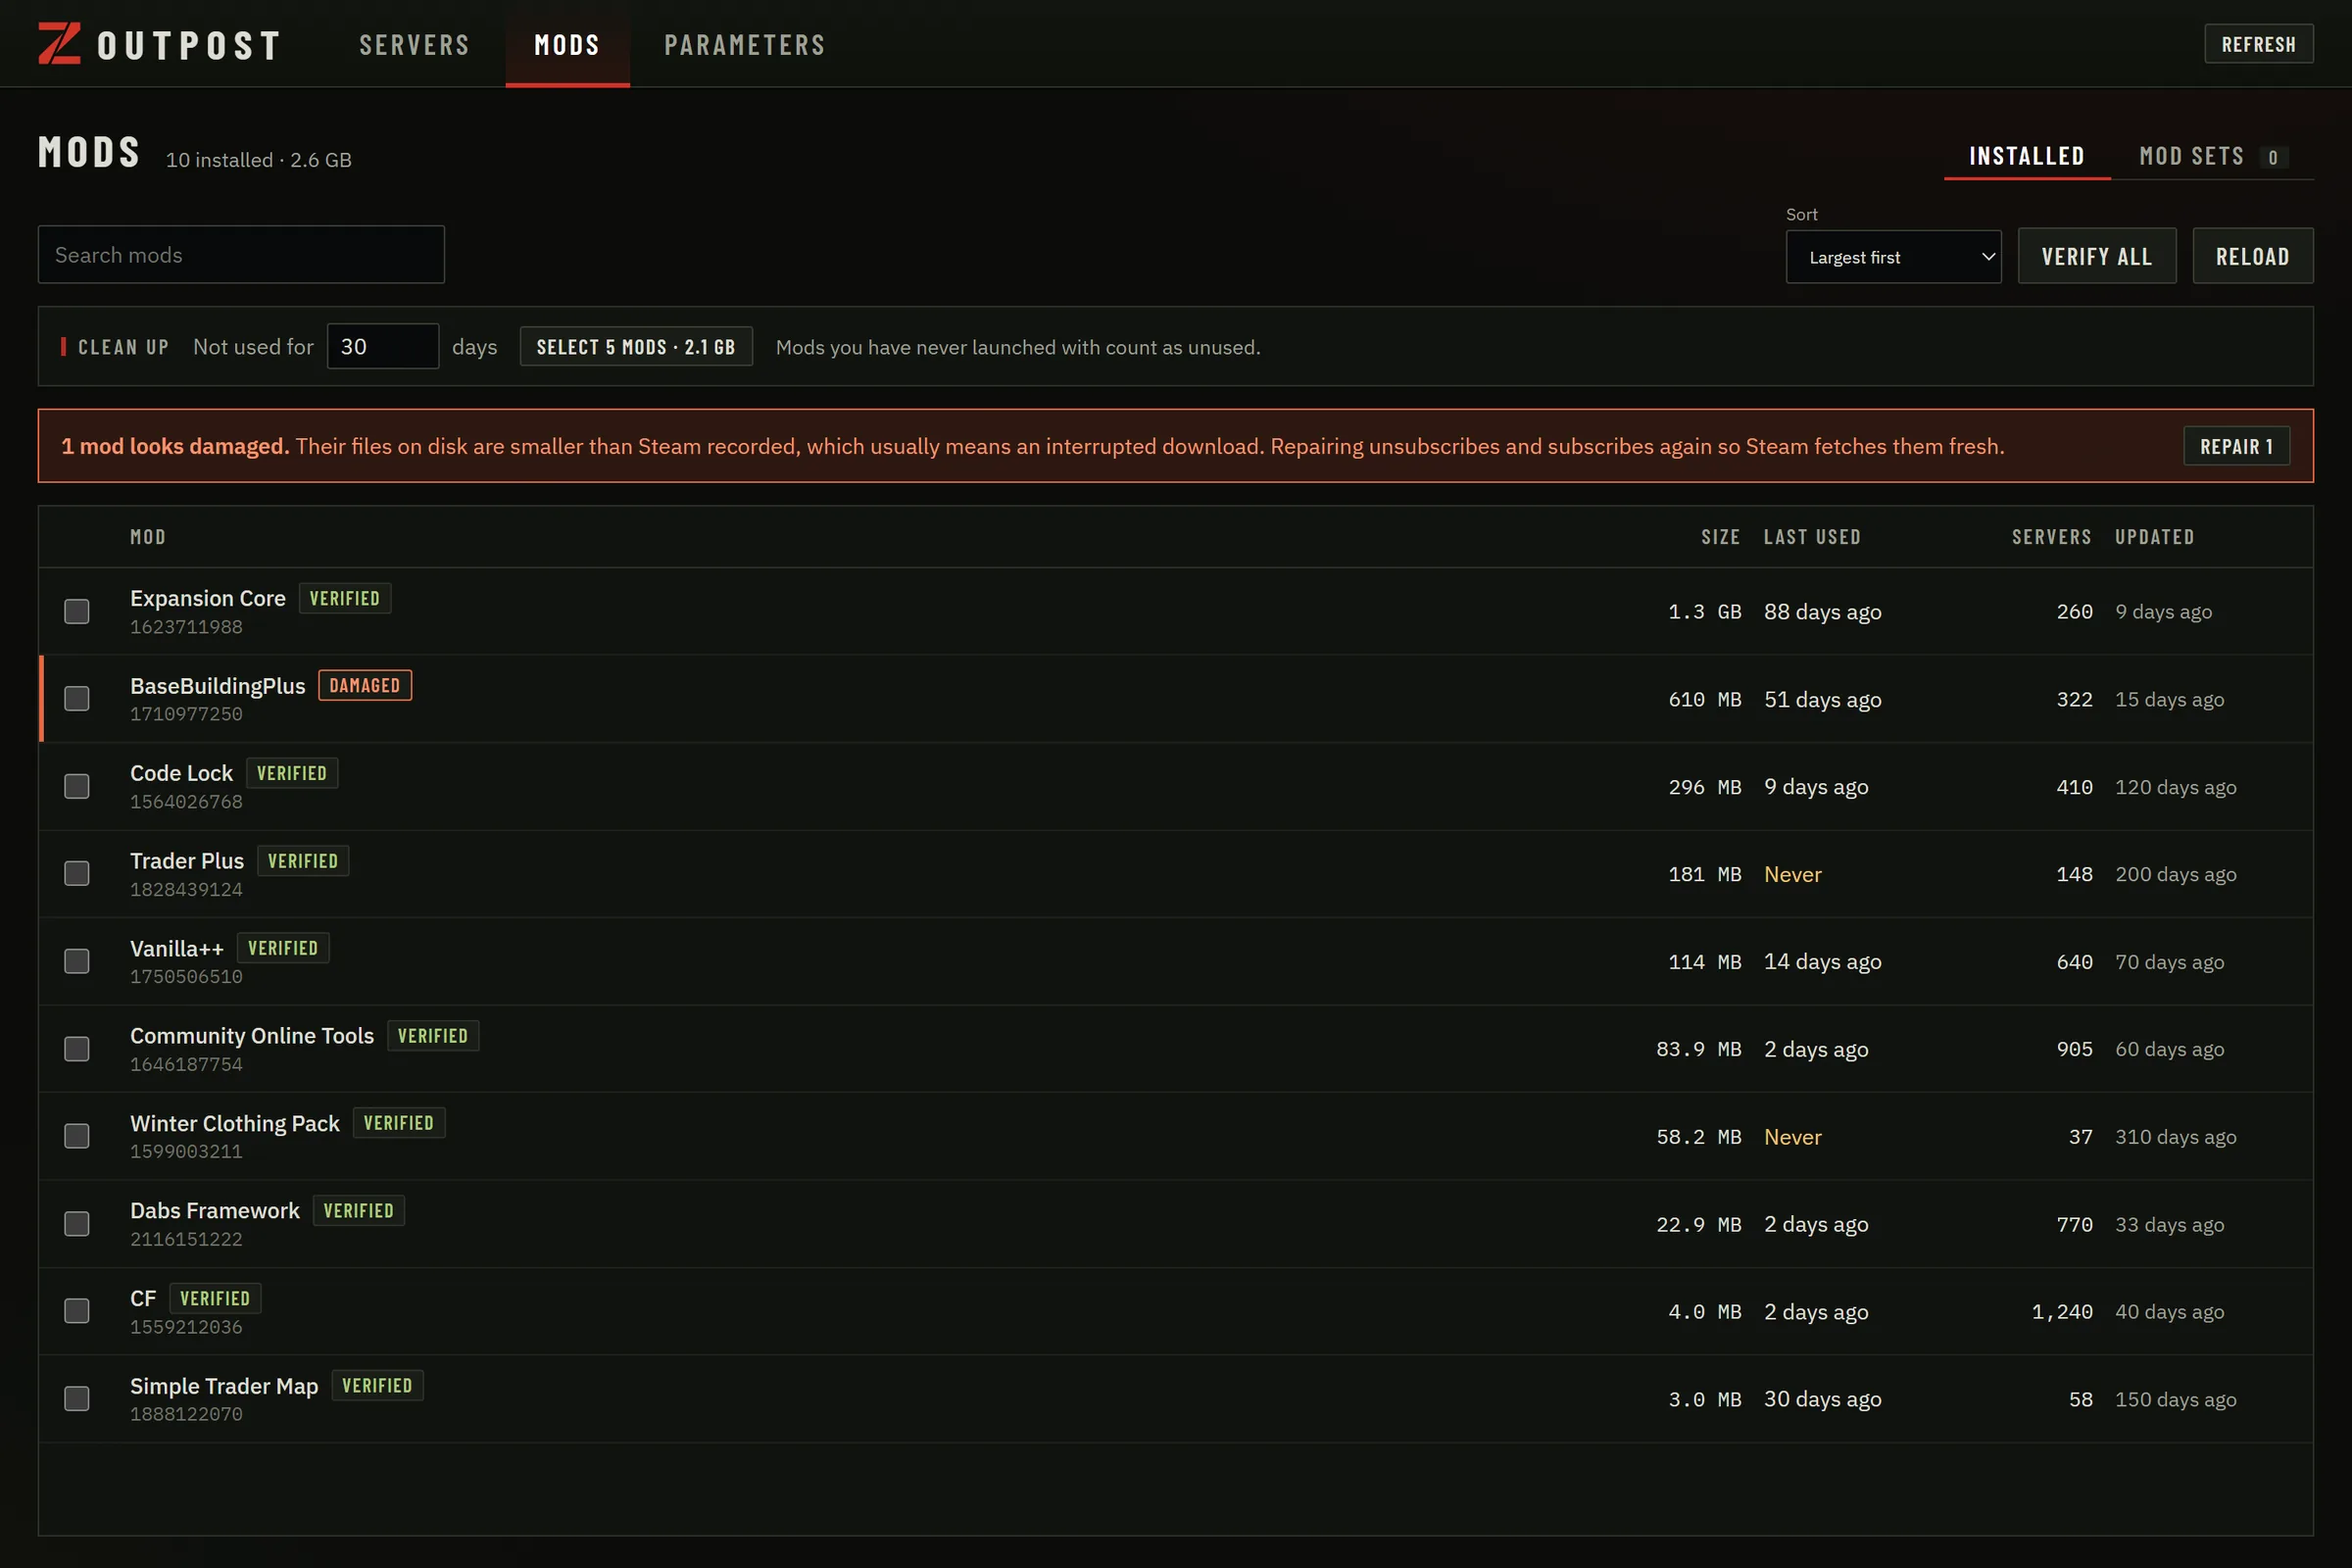
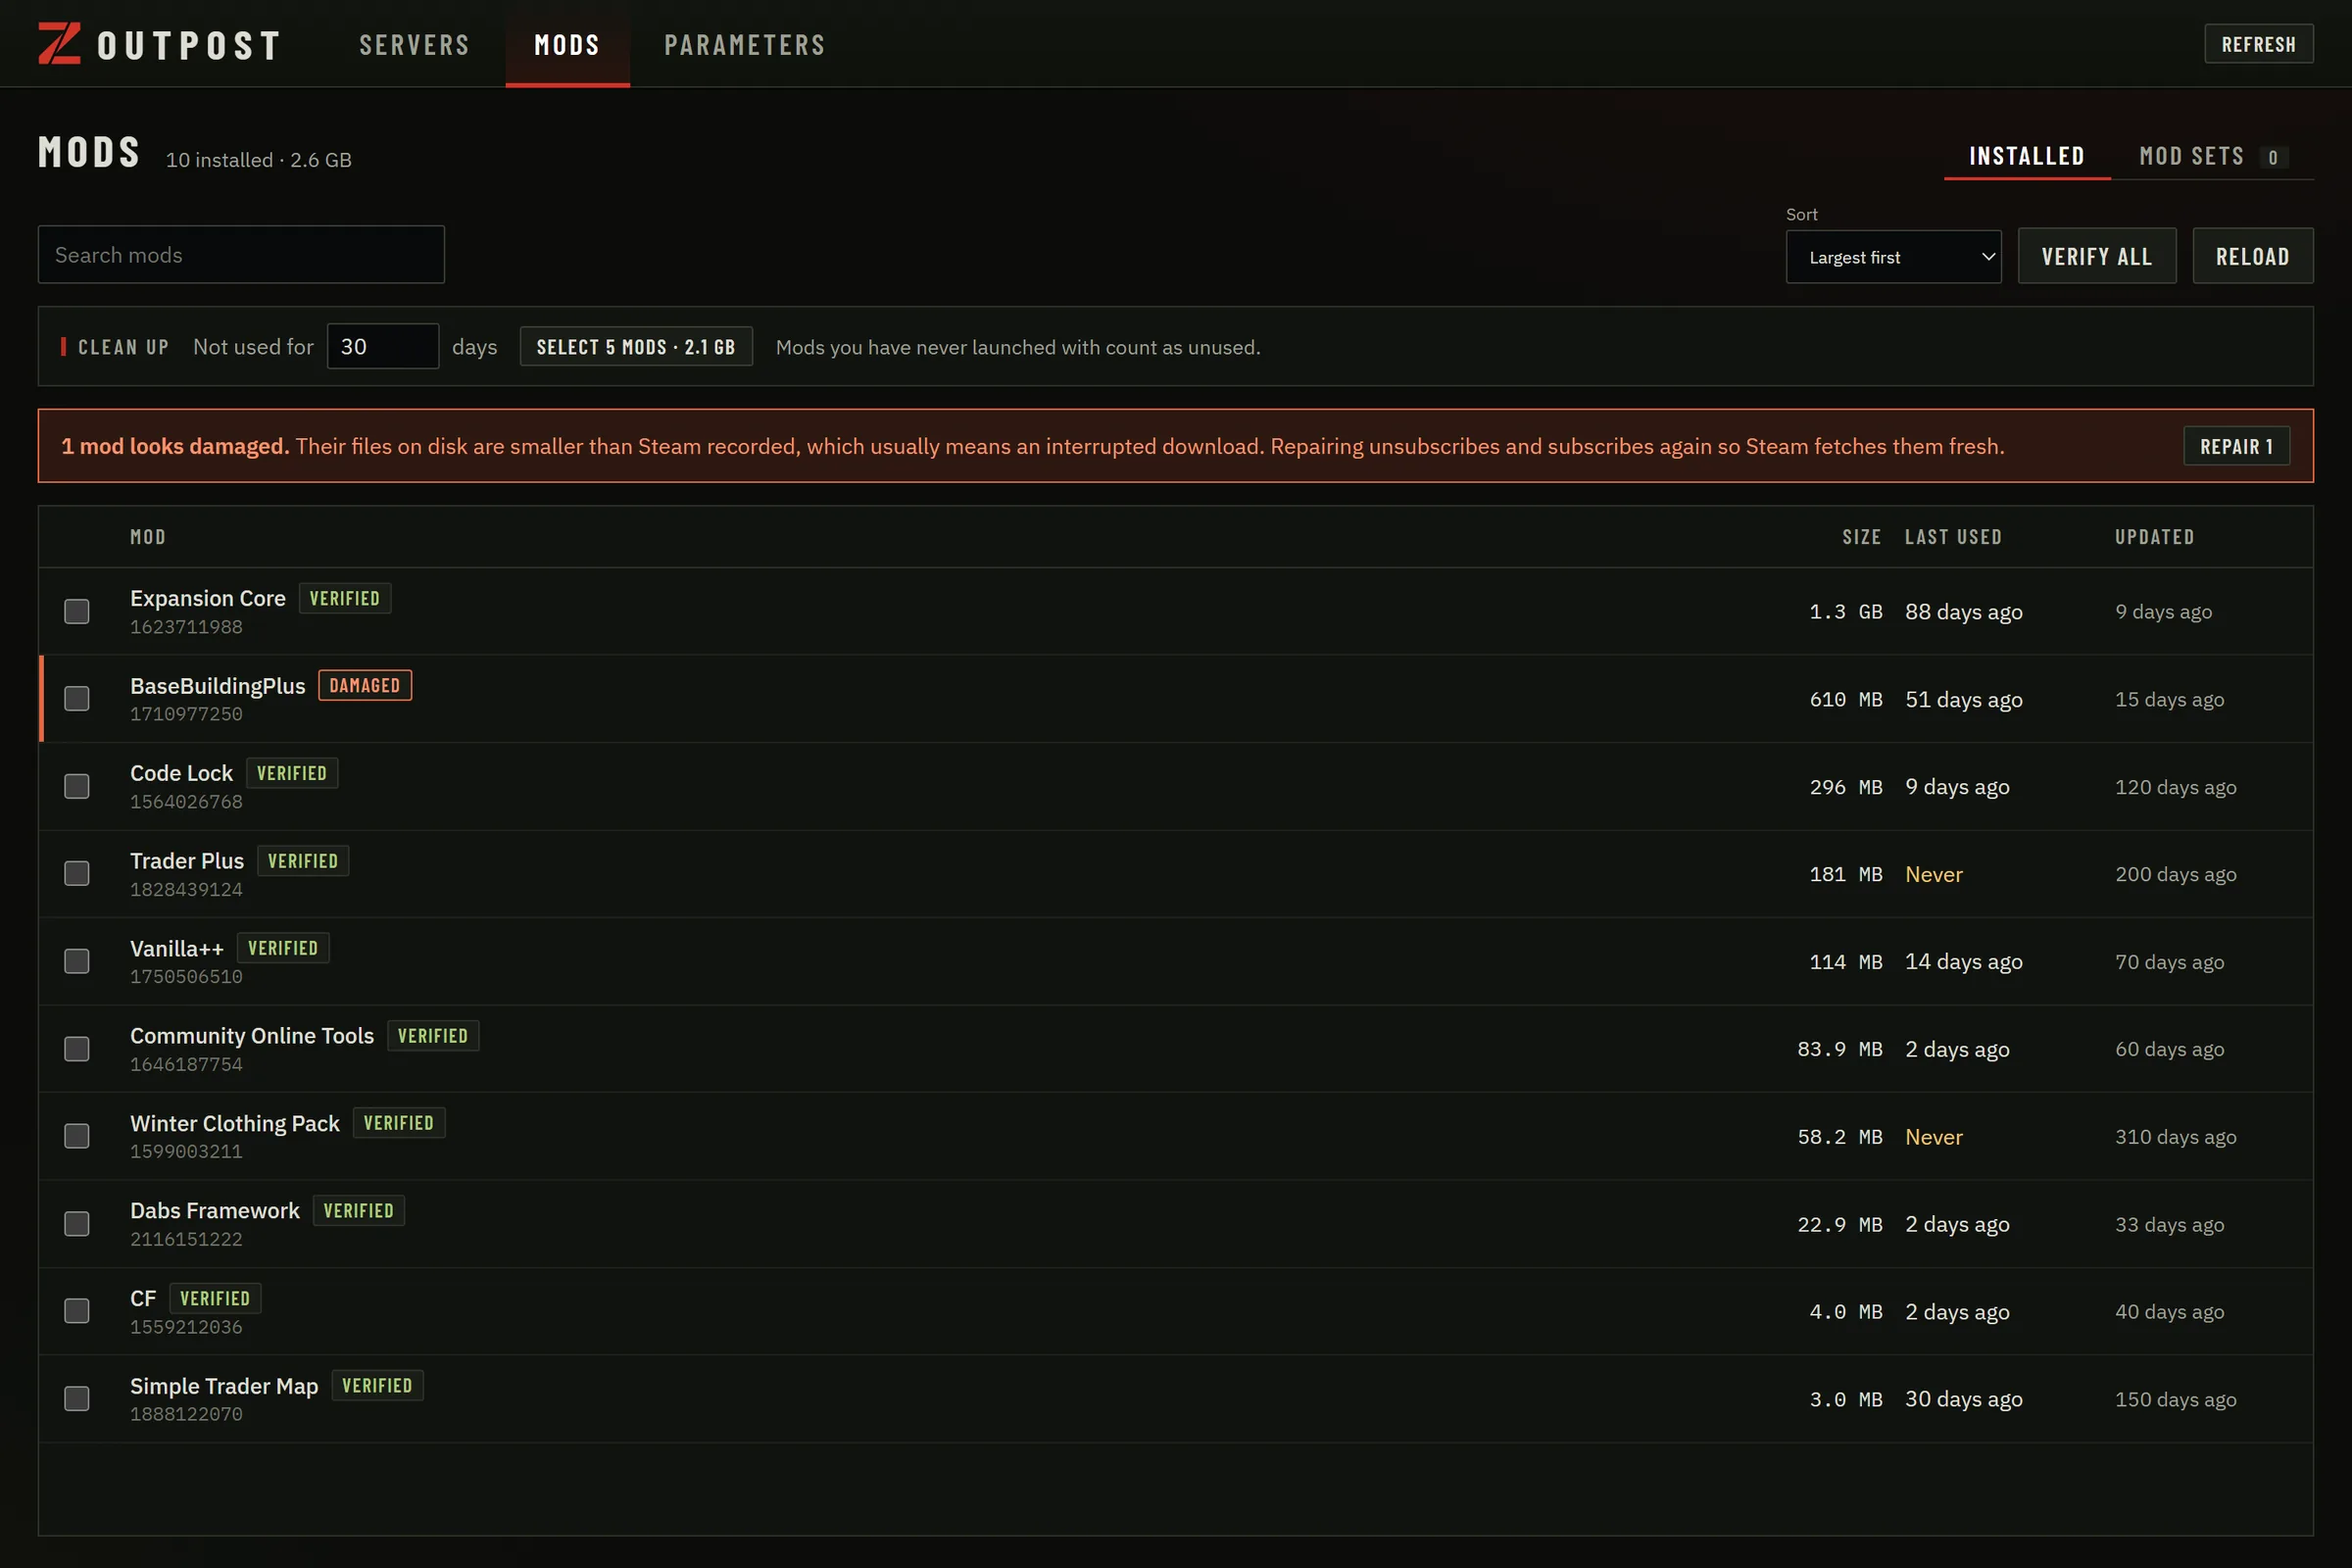
Update the landing page for Outpost 0.3.0
New screenshots of the server browser and the Mods tab, and copy that
matches what 0.3.0 does: servers come from Outpost's own list, each server
is asked directly for its mods, password and ping, and mod search, the
mod-count and password filters and the servers-per-mod column are gone.

diff --git a/site/public/index.html b/site/public/index.html
@@ -58,7 +58,7 @@
 
         <div class="shot">
           <div class="frame">
-            <img src="/img/servers.webp" width="2400" height="1888" alt="The Outpost server browser. A server is selected and a Ready to join checklist shows a matching game version, two mods to download, free disk space and open slots, with a single button that reads Download 1.1 GB and play." fetchpriority="high" />
+            <img src="/img/servers.webp" width="2400" height="1888" alt="The Outpost server browser listing servers with players. One server is selected, and a Ready to join checklist shows a matching game version, two mods to download, free disk space and its ping, with a single button that reads Download 1.1 GB and play." fetchpriority="high" />
           </div>
         </div>
       </section>
@@ -73,12 +73,12 @@
             <article class="card">
               <h3>Find a server fast</h3>
               <ul>
-                <li>Search by server name, IP address or mod name</li>
-                <li>Filter by map, first or third person, full, empty, password, BattlEye, vanilla and number of mods</li>
-                <li>Sort by name, players or number of mods</li>
+                <li>Search by server name, IP address or map</li>
+                <li>Filter by map, first or third person, full servers, BattlEye and vanilla (no mods)</li>
+                <li>Sort by name or players</li>
                 <li>Favorites, saved on your computer</li>
-                <li>Starts instantly from the saved list and refreshes in the background</li>
-                <li>Ask one server for live player counts and mods</li>
+                <li>Shows the servers that have players right now, kept from last time so it starts instantly and refreshed in the background</li>
+                <li>Select a server and Outpost asks it directly for its mods, password and ping</li>
               </ul>
             </article>
 
@@ -86,7 +86,7 @@
               <h3>A ready-to-join checklist</h3>
               <ul>
                 <li>Game version against the server's version, with who needs to act if they differ</li>
-                <li>Mods installed, missing or out of date</li>
+                <li>Mods installed, missing or out of date, read straight from the game server. Any mod it gives no Workshop ID for is named, not guessed</li>
                 <li>Download size and a time estimate from your own last download</li>
                 <li>Free disk space before and after the download</li>
                 <li>Open slots, a full server, or a password requirement</li>
@@ -108,7 +108,7 @@
             <article class="card">
               <h3>Take control of your mods</h3>
               <ul>
-                <li>Every installed mod with its size, last use and how many servers use it</li>
+                <li>Every installed mod with its size and when you last used it</li>
                 <li>Clean up mods you have not used for a while, with a preview of the space you get back</li>
                 <li>Verify files and repair damaged mods in one click</li>
                 <li>Mod sets: save a group of mods, launch it without a server, share it as a short code</li>
@@ -148,7 +148,7 @@
           </div>
           <div class="gallery">
             <figure>
-              <div class="frame"><img src="/img/mods.webp" width="2400" height="1216" loading="lazy" alt="The Mods tab lists installed mods with size, last used and server count. One mod is marked Damaged, with a banner offering to repair it." /></div>
+              <div class="frame"><img src="/img/mods.webp" width="2400" height="1600" loading="lazy" alt="The Mods tab lists installed mods with their size, when they were last used and when they were updated. One mod is marked Damaged, with a banner offering to repair it." /></div>
               <figcaption><b>Mods</b>See what takes space, verify files, repair damaged mods and clean up the ones you no longer use.</figcaption>
             </figure>
             <figure>
@@ -183,7 +183,7 @@
                       </details>
           <details>
                         <summary>What does it collect?</summary>
-                        <p>Nothing. Your settings and favorites stay on your computer. It only talks to the public server list, Steam and its own update page.</p>
+                        <p>Nothing about you. There is no account and no analytics, and your settings and favorites stay on your computer. To work, Outpost talks to its own server list service, the game servers you select, Steam and GitHub (for updates). Like any website or game server, those can see your IP address.</p>
                       </details>
         </div>
       </section>
